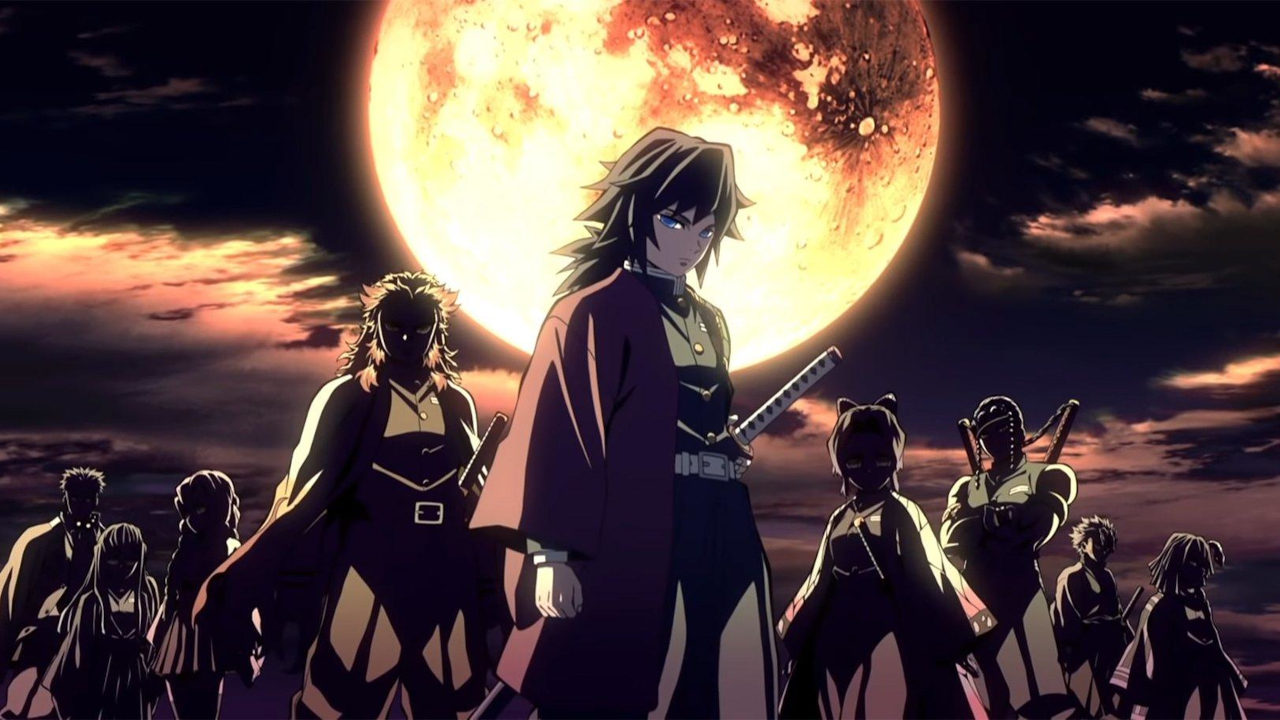
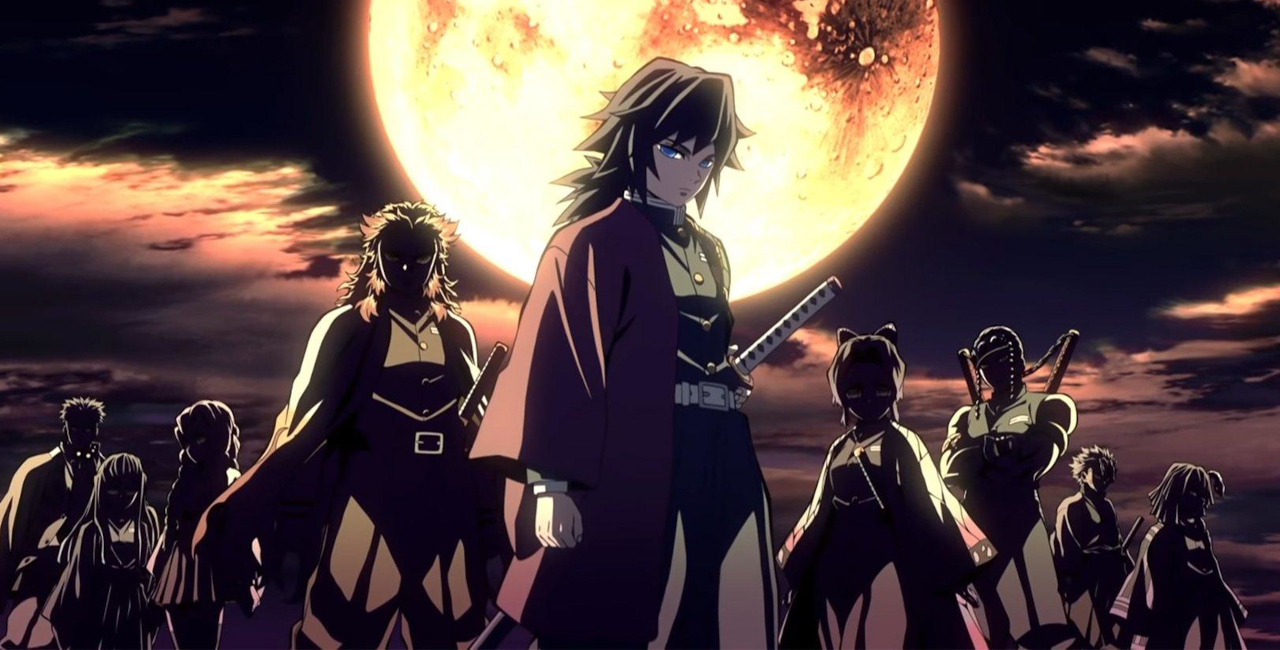
Added more contents and re-designed index carousel

diff --git a/index.html b/index.html
@@ -90,7 +90,7 @@
     <!-- News Carousel -->
     <div class="container">
         <h3 class="news-title">NEWS</h3>
-        <div id="carouselExampleIndicators" class="carousel slide" data-ride="carousel">
+        <div id="carouselExampleIndicators" class="carousel slide align-top" data-ride="carousel">
             <ol class="carousel-indicators">
                 <li data-target="#carouselExampleIndicators" data-slide-to="0" class="active"></li>
                 <li data-target="#carouselExampleIndicators" data-slide-to="1"></li>
@@ -98,25 +98,36 @@
             </ol>
             <div class="carousel-inner">
                 <div class="carousel-item active">
-                    <img class="d-block w-100" src="images/characters/hashira.jpg" alt="First slide">
+                    <img class="d-block w-100" src="images/hashira-news.jpg" alt="Hashira News">
                     <div class="carousel-caption d-none d-md-block carousel-bgcolor">
                         <h5>Dance of the Hashira</h5>
-                        <p>The Hashira has joined the fray! Dance of Hashira gacha begins on 1 January 2021, obtain your
-                            favorite Hashira now!</p>
+                        <p>The Hashira has joined the fray! Dance of Hashira gacha begins on 1 January 2021, with rates
+                            up to different Hashira weekly! Obtain your favorite Hashira from the upcoming banners!</p>
                     </div>
                 </div>
                 <div class="carousel-item">
-                    <img class="d-block w-100" src="images/characters/hashira.jpg" alt="Second slide">
+                    <img class="d-block w-100" src="images/giyu-news.jpg" alt="Giyu News">
                     <div class="carousel-caption d-none d-md-block carousel-bgcolor">
-                        <h5>...</h5>
-                        <p>...</p>
+                        <h5>[Water Hashira] Giyu Tomioka</h5>
+                        <p>[Water Hashira] Giyu Tomioka will be the first Hashira unit to join the gacha pool! For a
+                            limited time, you will have a higher chance to get [Water Hashira] Giyu Tomioka from the
+                            gacha!</p>
                     </div>
                 </div>
                 <div class="carousel-item">
-                    <img class="d-block w-100" src="images/characters/hashira.jpg" alt="Third slide">
+                    <img class="d-block w-100" src="images/shinobu-news.jpg" alt="Shinobu News">
                     <div class="carousel-caption d-none d-md-block carousel-bgcolor">
-                        <h5>...</h5>
-                        <p>...</p>
+                        <h5>[Insect Hashira] Shinobu Kocho</h5>
+                        <p>[Insect Hashira] Shinobu Kocho will be joining [Water Hashira] Giyu Tomioka in the limited
+                            time banner starting from 7 January 2021! This deadly Hashira possess Medical Expertise,
+                            making her a powerful support in your team!</p>
+                    </div>
+                </div>
+                <div class="carousel-item">
+                    <img class="d-block w-100" src="images/celebration-news.jpg" alt="Celebration News">
+                    <div class="carousel-caption d-none d-md-block carousel-bgcolor">
+                        <h5>Celebration Event!</h5>
+                        <p>Celebrate with us the official launch of Demon Slayer - Dark War</p>
                     </div>
                 </div>
             </div>

diff --git a/css/style.css b/css/style.css
@@ -318,16 +318,6 @@ body {
     width: 18vw;
 }
 
-.carousel-bgcolor {
-    background-color: rgba(0, 0, 0, 0.7);
-    bottom: 0;
-    left: 0 !important;
-    width: 100%;
-}
-.carousel-indicators {
-    bottom: 50vh !important;
-}
-
 .news-title {
     font-family: dslayer;
     font-size: 6vw;
@@ -337,6 +327,22 @@ body {
     -webkit-animation: glow 3s ease-in-out infinite alternate;
     -moz-animation: glow 3s ease-in-out infinite alternate;
     animation: glow 3s ease-in-out infinite alternate;
+}
+
+.carousel-bgcolor {
+    background-color: rgba(0, 0, 0, 0.7);
+    bottom: 0;
+    left: 0 !important;
+    width: 100%;
+}
+
+.carousel-bgcolor p {
+    padding-left: 8vw;
+    padding-right: 8vw;
+}
+
+.carousel-indicators {
+    bottom: 0vh !important;
 }
 
 @media only screen and (max-width: 1023px) {
